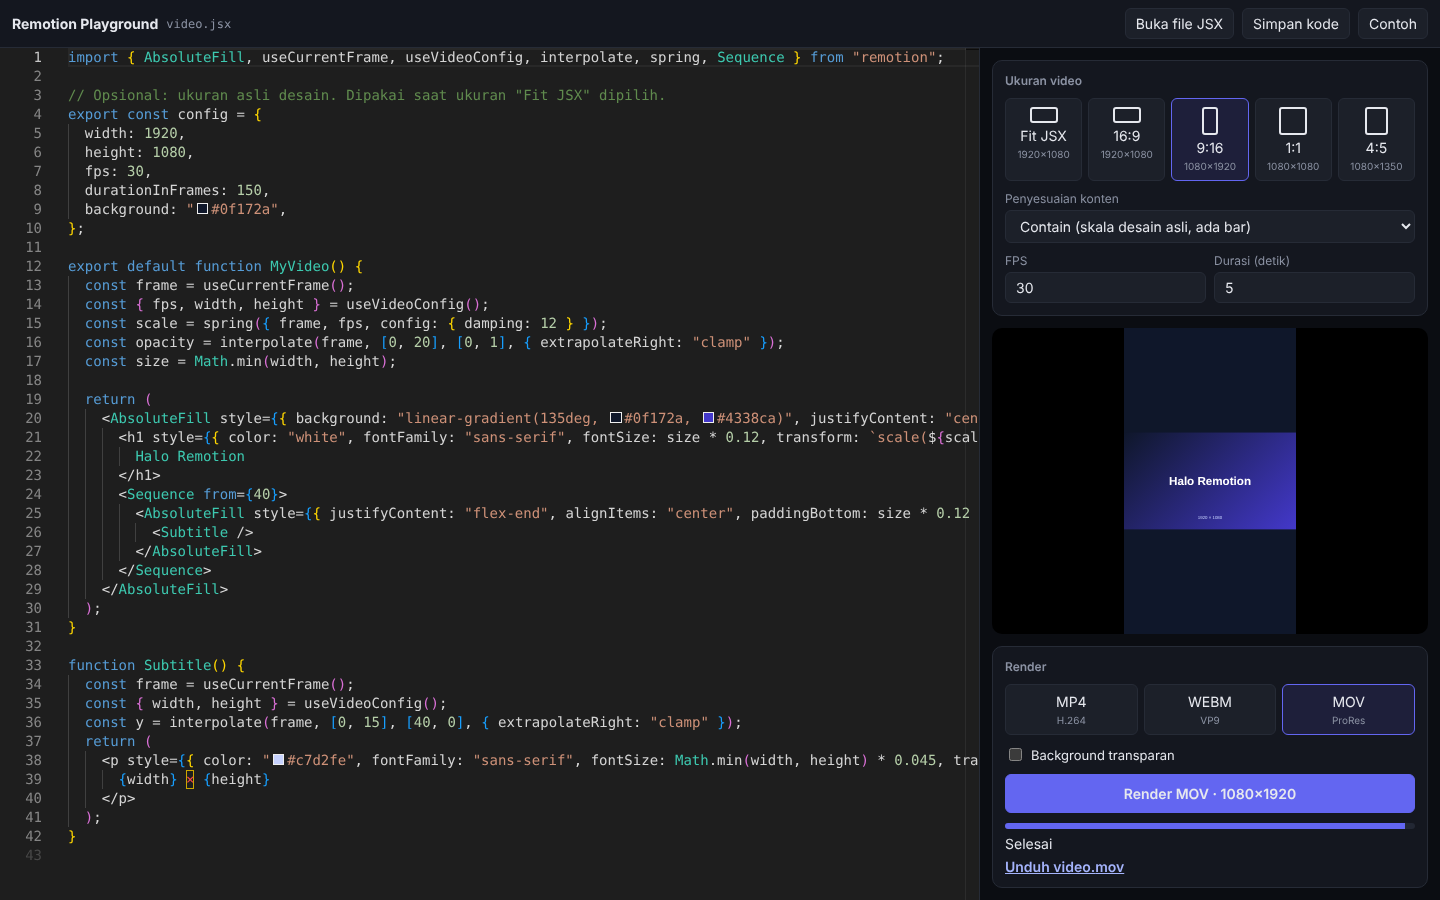
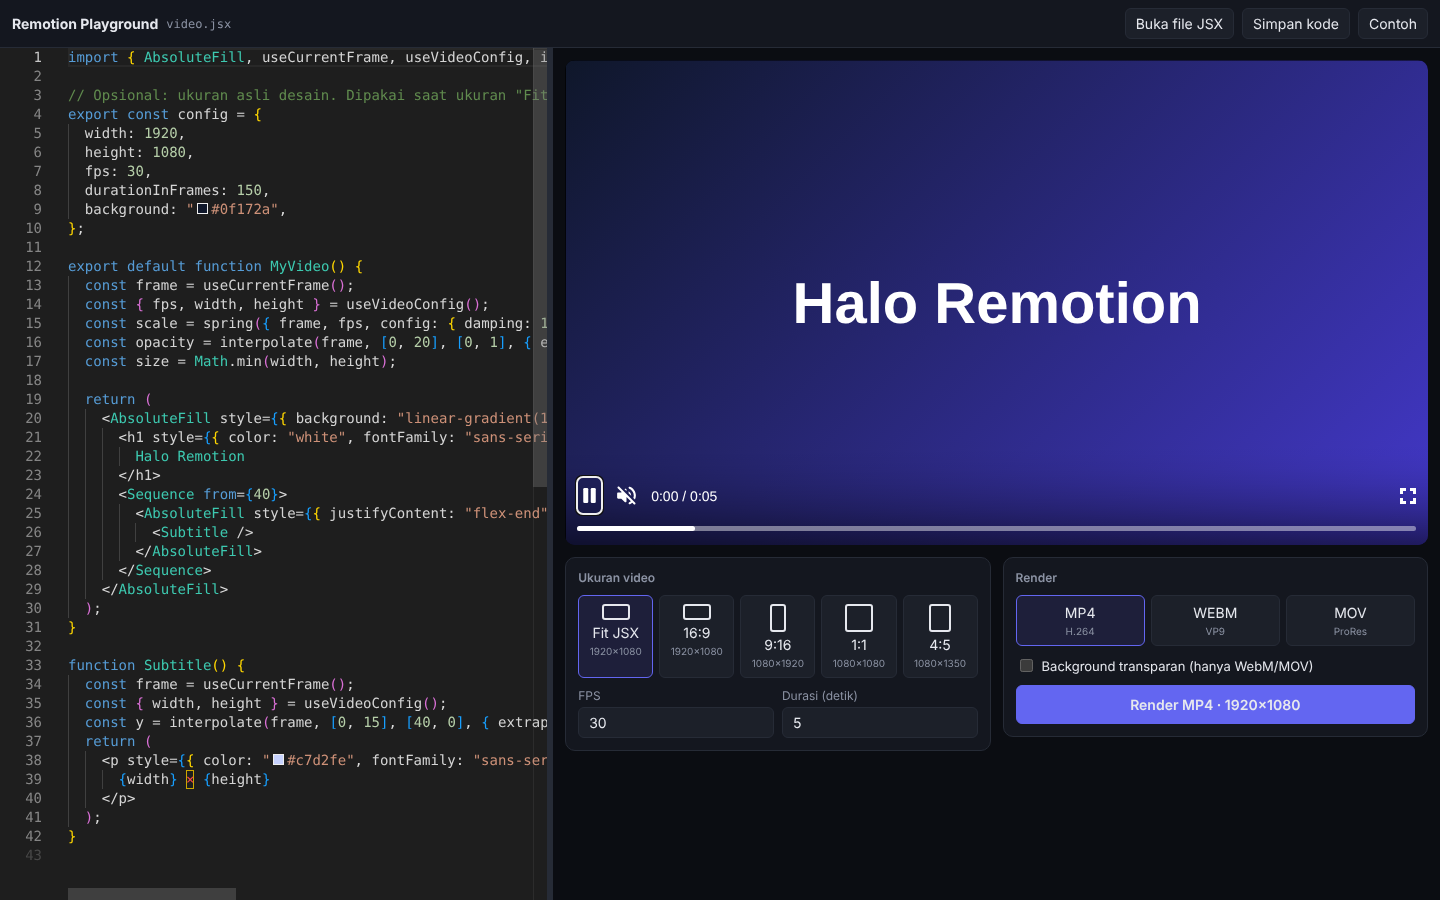
Editor bisa di-resize dengan drag, panel preview lebih lebar
- Splitter antara editor dan panel kanan (drag, panah kiri/kanan, klik dua kali untuk reset)
- Lebar editor default 38%, dibatasi 20-65%, disimpan di localStorage
- Preview di paling atas dengan tinggi mengikuti rasio video; pengaturan ukuran dan render berdampingan bila panel cukup lebar
- Perbaiki overflow horizontal header di layar HP

Claude-Session: https://claude.ai/code/session_01QNZUUdVxUTSJGZMepxSZPk

diff --git a/src/App.tsx b/src/App.tsx
@@ -28,6 +28,62 @@ function useDebounced<T>(value: T, ms: number) {
   return v;
 }
 
+const SPLIT_KEY = "remotion-playground:editor-width";
+const DEFAULT_PCT = 38;
+const MIN_PCT = 20;
+const MAX_PCT = 65;
+const clampPct = (n: number) => Math.min(MAX_PCT, Math.max(MIN_PCT, n));
+
+/** Lebar editor (persen) yang bisa diubah dengan drag, disimpan di localStorage. */
+function useSplit() {
+  const mainRef = useRef<HTMLElement>(null);
+  const [editorPct, setEditorPct] = useState(() => {
+    try {
+      const v = Number(localStorage.getItem(SPLIT_KEY));
+      return v ? clampPct(v) : DEFAULT_PCT;
+    } catch {
+      return DEFAULT_PCT;
+    }
+  });
+  const [dragging, setDragging] = useState(false);
+
+  useEffect(() => {
+    try {
+      localStorage.setItem(SPLIT_KEY, String(editorPct));
+    } catch {}
+  }, [editorPct]);
+
+  function onSplitterDown(e: React.PointerEvent<HTMLDivElement>) {
+    const main = mainRef.current;
+    if (!main || e.button !== 0) return;
+    e.preventDefault();
+    const handle = e.currentTarget;
+    handle.setPointerCapture(e.pointerId);
+    setDragging(true);
+    const rect = main.getBoundingClientRect();
+    const move = (ev: PointerEvent) => setEditorPct(clampPct(((ev.clientX - rect.left) / rect.width) * 100));
+    const up = () => {
+      setDragging(false);
+      handle.removeEventListener("pointermove", move);
+      handle.removeEventListener("pointerup", up);
+      handle.removeEventListener("pointercancel", up);
+    };
+    handle.addEventListener("pointermove", move);
+    handle.addEventListener("pointerup", up);
+    handle.addEventListener("pointercancel", up);
+  }
+
+  function onSplitterKey(e: React.KeyboardEvent) {
+    const step = e.shiftKey ? 10 : 2;
+    if (e.key === "ArrowLeft") setEditorPct((p) => clampPct(p - step));
+    else if (e.key === "ArrowRight") setEditorPct((p) => clampPct(p + step));
+    else return;
+    e.preventDefault();
+  }
+
+  return { mainRef, editorPct, dragging, onSplitterDown, onSplitterKey, resetSplit: () => setEditorPct(DEFAULT_PCT) };
+}
+
 export function App() {
   const [code, setCode] = useState(load);
   const [fileName, setFileName] = useState("video.jsx");
@@ -42,6 +98,7 @@ export function App() {
   const [job, setJob] = useState<Job | null>(null);
   const playerRef = useRef<PlayerRef>(null);
   const fileInput = useRef<HTMLInputElement>(null);
+  const { mainRef, editorPct, dragging, onSplitterDown, onSplitterKey, resetSplit } = useSplit();
 
   useEffect(() => {
     try {
@@ -161,7 +218,11 @@ export function App() {
         </button>
       </header>
 
-      <main>
+      <main
+        ref={mainRef}
+        className={dragging ? "dragging" : ""}
+        style={{ "--editor-width": `${editorPct}%` } as React.CSSProperties}
+      >
         <section className="editor">
           <Editor
             path="video.tsx"
@@ -173,7 +234,47 @@ export function App() {
           />
         </section>
 
+        <div
+          className="splitter"
+          role="separator"
+          aria-orientation="vertical"
+          aria-label="Ubah lebar editor"
+          aria-valuenow={Math.round(editorPct)}
+          aria-valuemin={MIN_PCT}
+          aria-valuemax={MAX_PCT}
+          tabIndex={0}
+          title="Geser untuk mengubah lebar · klik dua kali untuk reset"
+          onPointerDown={onSplitterDown}
+          onKeyDown={onSplitterKey}
+          onDoubleClick={resetSplit}
+        />
+
         <section className="side">
+          <div className="preview" style={{ aspectRatio: `${width} / ${height}` }}>
+            {compiled.error && <pre className="error">{compiled.error}</pre>}
+            <Player
+              key={`${width}x${height}-${playerKey}`}
+              ref={playerRef}
+              component={Runner}
+              inputProps={inputProps}
+              durationInFrames={durationInFrames}
+              fps={fps}
+              compositionWidth={width}
+              compositionHeight={height}
+              controls
+              loop
+              autoPlay
+              acknowledgeRemotionLicense
+              className={transparent ? "checker" : ""}
+              style={{ width: "100%", maxHeight: "100%", aspectRatio: `${width} / ${height}` }}
+              errorFallback={({ error }) => {
+                crashed.current = true;
+                return <pre className="error inside">{error.message}</pre>;
+              }}
+            />
+          </div>
+
+          <div className="side-panels">
           <div className="panel">
             <label className="title">Ukuran video</label>
             <div className="presets">
@@ -244,30 +345,6 @@ export function App() {
             )}
           </div>
 
-          <div className="preview">
-            {compiled.error && <pre className="error">{compiled.error}</pre>}
-            <Player
-              key={`${width}x${height}-${playerKey}`}
-              ref={playerRef}
-              component={Runner}
-              inputProps={inputProps}
-              durationInFrames={durationInFrames}
-              fps={fps}
-              compositionWidth={width}
-              compositionHeight={height}
-              controls
-              loop
-              autoPlay
-              acknowledgeRemotionLicense
-              className={transparent ? "checker" : ""}
-              style={{ width: "100%", maxHeight: "100%", aspectRatio: `${width} / ${height}` }}
-              errorFallback={({ error }) => {
-                crashed.current = true;
-                return <pre className="error inside">{error.message}</pre>;
-              }}
-            />
-          </div>
-
           <div className="panel">
             <label className="title">Render</label>
             <div className="formats">
@@ -308,6 +385,7 @@ export function App() {
                 {job.error && <pre className="error">{job.error}</pre>}
               </div>
             )}
+          </div>
           </div>
         </section>
       </main>

diff --git a/src/styles.css b/src/styles.css
@@ -29,9 +29,28 @@ header {
 header .file { color: var(--muted); font-family: ui-monospace, monospace; font-size: 12px; }
 .spacer { flex: 1; }
 
-main { flex: 1; display: grid; grid-template-columns: minmax(0, 1fr) 460px; min-height: 0; }
-.editor { min-height: 0; border-right: 1px solid var(--border); }
-.side { display: flex; flex-direction: column; gap: 12px; padding: 12px; overflow: auto; min-height: 0; }
+main {
+  flex: 1; display: grid; min-height: 0;
+  grid-template-columns: var(--editor-width, 38%) 6px minmax(0, 1fr);
+}
+main.dragging { cursor: col-resize; user-select: none; }
+/* Iframe/canvas di Monaco & Player jangan menelan event saat drag */
+main.dragging .editor, main.dragging .side { pointer-events: none; }
+.editor { min-height: 0; min-width: 0; }
+.splitter {
+  cursor: col-resize; background: var(--border); position: relative; touch-action: none;
+  transition: background .15s;
+}
+.splitter::after { content: ""; position: absolute; inset: 0 -4px; } /* area sentuh lebih lebar */
+.splitter:hover, .splitter:focus-visible, main.dragging .splitter { background: var(--accent); outline: none; }
+.side {
+  display: flex; flex-direction: column; gap: 12px; padding: 12px; overflow: auto; min-height: 0;
+  container-type: inline-size;
+}
+.side-panels { display: flex; flex-direction: column; gap: 12px; }
+@container (min-width: 760px) {
+  .side-panels { display: grid; grid-template-columns: 1fr 1fr; align-items: start; }
+}
 
 .panel { background: var(--panel); border: 1px solid var(--border); border-radius: 10px; padding: 12px; display: flex; flex-direction: column; gap: 10px; }
 .title { font-weight: 600; }
@@ -54,8 +73,9 @@ button.link { background: none; border: none; color: var(--accent); padding: 0; 
 
 .preview {
   position: relative; background: #000; border-radius: 10px; overflow: hidden;
-  display: flex; align-items: center; justify-content: center; min-height: 200px; max-height: 60vh;
+  display: flex; align-items: center; justify-content: center; min-height: 200px; max-height: 62vh; flex-shrink: 0;
 }
+.preview > div { max-height: 100%; }
 .preview > div { max-width: 100%; }
 .checker {
   background-color: #fff;
@@ -81,6 +101,9 @@ button.link { background: none; border: none; color: var(--accent); padding: 0; 
 
 @media (max-width: 900px) {
   main { grid-template-columns: 1fr; grid-template-rows: 45vh auto; }
-  .editor { border-right: none; border-bottom: 1px solid var(--border); }
+  .splitter { display: none; }
+  header { flex-wrap: wrap; }
+  header .spacer { display: none; }
+  .editor { border-bottom: 1px solid var(--border); }
   .presets { grid-template-columns: repeat(3, 1fr); }
 }
